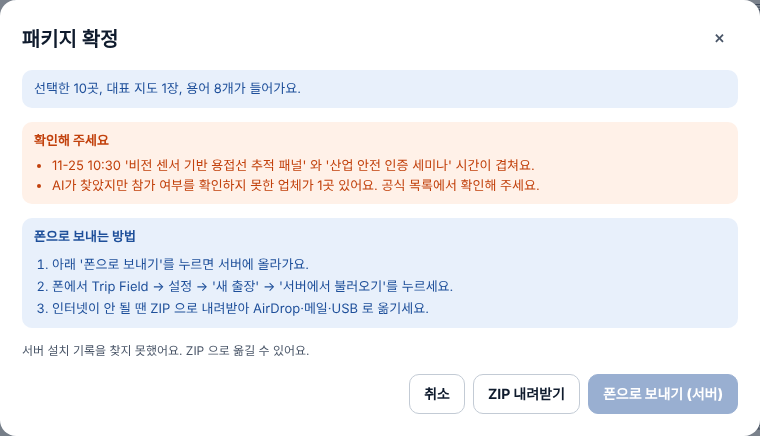
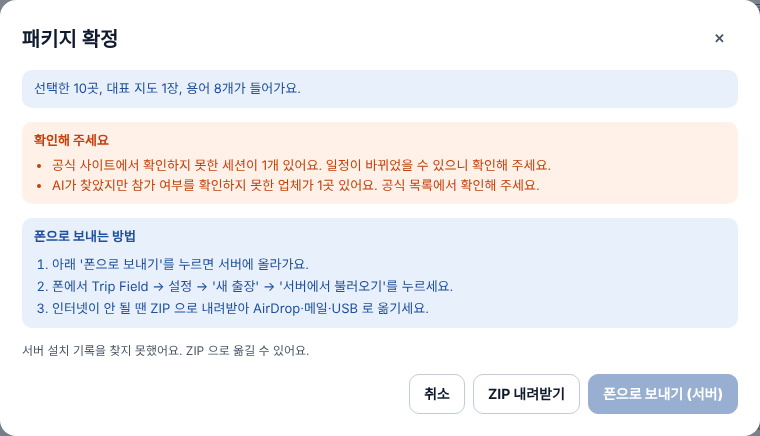
세션은 전부 폰으로 전달, 참석 여부는 폰에서 선택(내보내기→보고서 반영), 매뉴얼 갱신
Claude-Session: https://claude.ai/code/session_01QquWuwNK276MS5WpECriYo

Changed region(s): [[0.0605, 0.3578, 0.7263, 0.3876]]

diff --git a/field-pwa/js/views/list.js b/field-pwa/js/views/list.js
@@ -31,7 +31,7 @@ export async function renderList(root, ctx) {
   const todaySessions = (trip.sessions || []).filter((x) => x.date === date);
   const sessHtml = todaySessions.length
     ? `<div class="group-title">오늘 세션 · ${todaySessions.length}개</div><div class="list-card">${todaySessions
-        .map((x) => `<div class="item" data-sess="${esc(x.id)}" role="button" tabindex="0"><div class="item-main"><div class="item-name"><span style="color:var(--orange);font-weight:800">${esc(x.start || "시간 미정")}${x.end ? "~" + esc(x.end) : ""}</span> ${esc(x.title)}</div><div class="item-sub">${esc([x.place, x.hall && `홀 ${x.hall}`, x.speaker].filter(Boolean).join(" · ") || "장소 미정")}</div></div><span class="muted" aria-hidden="true">›</span></div>`)
+        .map((x) => `<div class="item" data-sess="${esc(x.id)}" role="button" tabindex="0"><div class="item-main"><div class="item-name"><span style="color:var(--orange);font-weight:800">${esc(x.start || "시간 미정")}${x.end ? "~" + esc(x.end) : ""}</span> ${esc(x.title)}${x.going ? ` <span class="pill pill-blue">참석</span>` : ""}</div><div class="item-sub">${esc([x.place, x.hall && `홀 ${x.hall}`, x.speaker].filter(Boolean).join(" · ") || "장소 미정")}</div></div><span class="muted" aria-hidden="true">›</span></div>`)
         .join("")}</div>`
     : "";
 
@@ -62,7 +62,7 @@ export async function renderList(root, ctx) {
   });
   root.querySelector("#addBtn").onclick = () => openAddCompany(ctx);
   root.querySelectorAll("[data-sess]").forEach((row) => {
-    row.onclick = () => openSession(todaySessions.find((x) => x.id === row.dataset.sess), trip);
+    row.onclick = () => openSession(todaySessions.find((x) => x.id === row.dataset.sess), trip, () => ctx.rerender());
   });
 
   root.querySelectorAll("[data-open]").forEach((row) => {

diff --git a/field-pwa/js/views/shared.js b/field-pwa/js/views/shared.js
@@ -253,7 +253,7 @@ export function openBookings(trip) {
 }
 
 // 세션(세미나·컨퍼런스) 상세: 시간·장소·연사·주제, 홀이 있으면 맵에서 보기
-export function openSession(x, trip) {
+export function openSession(x, trip, onChange) {
   if (!x) return;
   const when = `${x.date.slice(5).replace("-", "/")} ${x.start || "시간 미정"}${x.end ? "~" + x.end : ""}`;
   const { el, close } = openSheet(`<div class="sheet-head"><h2 class="sheet-title">세션</h2><button class="icon-btn" data-close aria-label="닫기" style="margin-right:-8px">${icons.close(22)}</button></div>
@@ -263,8 +263,15 @@ export function openSession(x, trip) {
       <div class="small">${esc([x.place, x.hall && `홀 ${x.hall}`].filter(Boolean).join(" · ") || "장소 미정")}</div>
       ${x.speaker ? `<div class="small">연사 ${esc(x.speaker)}</div>` : ""}
       ${x.topic ? `<div class="small muted" style="line-height:1.6">${esc(x.topic)}</div>` : ""}
-      ${x.hall ? `<button class="btn btn-primary btn-block" id="sessMap">맵에서 홀 ${esc(x.hall)} 보기</button>` : ""}
+      <button class="btn btn-block ${x.going ? "" : "btn-primary"}" id="sessGo">${x.going ? "✓ 참석 예정 (누르면 취소)" : "참석할게요"}</button>
+      ${x.hall ? `<button class="btn btn-block" id="sessMap">맵에서 홀 ${esc(x.hall)} 보기</button>` : ""}
     </div>`);
+  el.querySelector("#sessGo").onclick = async () => {
+    x.going = !x.going;
+    trip.sessions = trip.sessions.map((o) => (o.id === x.id ? { ...o, going: x.going } : o));
+    await db.put("trips", trip);
+    close(); onChange?.();
+  };
   const b = el.querySelector("#sessMap");
   if (b) b.onclick = () => { try { sessionStorage.setItem("tf.focusHall", x.hall); } catch { /* 무시 */ } close(); location.hash = "#/map"; };
 }

diff --git a/field-pwa/js/exporter.js b/field-pwa/js/exporter.js
@@ -120,6 +120,7 @@ export async function buildDayZip(trip, day, JSZip = globalThis.JSZip) {
     exportedAt: new Date().toISOString(),
     tzOffsetMin: -new Date().getTimezoneOffset(), // 폰이 있던 곳의 UTC 대비 분(독일 겨울 +60). 노트북이 다른 시간대여도 현장 시각으로 보여 주기 위해
     companies: companiesOut,
+    sessions: (trip.sessions || []).filter((x) => x.going && x.date === trip.days[day - 1]).map((x) => ({ id: x.id, title: x.title, date: x.date, start: x.start, end: x.end, place: x.place, hall: x.hall, speaker: x.speaker })),
   };
   zip.file(`${dayDir}/visits.json`, JSON.stringify(visits, null, 2));
 

diff --git a/field-pwa/js/importer.js b/field-pwa/js/importer.js
@@ -134,7 +134,7 @@ export async function importTripPackage(file) {
     days: tripIn.days,
     glossary,
     hallPins: cleanPins(tripIn.hallPins),
-    sessions: cleanSessions(tripIn.sessions),
+    sessions: cleanSessions(tripIn.sessions).map((x) => ({ ...x, going: !!existingTrip?.sessions?.find((o) => o.id === x.id)?.going })), // 다시 받아도 '참석' 표시는 유지
     bookings: { flights: Array.isArray(tripIn.bookings?.flights) ? tripIn.bookings.flights : [], hotels: Array.isArray(tripIn.bookings?.hotels) ? tripIn.bookings.hotels : [] },
     createdAt: existingTrip?.createdAt || Date.now(),
   };

diff --git a/field-pwa/sw.js b/field-pwa/sw.js
@@ -1,6 +1,6 @@
 // 서비스 워커: 한 번 열어 두면 오프라인에서도 앱이 켜진다.
 // 파일을 바꿔 배포할 때는 VERSION 숫자를 올려 주세요.
-const VERSION = "tf-v13";
+const VERSION = "tf-v14";
 
 const SHELL = [
   "./",

diff --git a/desk/tripdesk/reports.py b/desk/tripdesk/reports.py
@@ -61,11 +61,23 @@ def build_day(store: Store, tid: str, n: int) -> dict:
         bits.append("오늘 못 간 업체(일정 재조정): " + ", ".join(missed))
     return {
         "tripName": trip["name"], "venue": trip.get("venue", ""), "day": n, "date": v.get("date") or trip["days"][n - 1],
+        "sessions": [x for x in v.get("sessions", []) if isinstance(x, dict) and x.get("title")],
         "summary": st.get("summary") or auto, "summaryIsAi": bool(st.get("summary")), "stats": summary,
         "companies": comps_out, "checks": checks,
         "tomorrow": st["tomorrow"] if st.get("tomorrow") is not None else " · ".join(bits),
         "tomorrowIsAuto": st.get("tomorrow") is None,
     }
+
+
+def _attended(days: list[dict]) -> list[dict]:
+    """폰에서 '참석'으로 표시해 내보낸 세션(일간 데이터에 들어 있음)."""
+    out, seen = [], set()
+    for d in days:
+        for x in d.get("sessions", []):
+            if x.get("id") not in seen:
+                seen.add(x.get("id"))
+                out.append(x)
+    return sorted(out, key=lambda x: (x.get("date", ""), x.get("start") or "99:99"))
 
 
 def build_final(store: Store, tid: str) -> dict:
@@ -89,7 +101,7 @@ def build_final(store: Store, tid: str) -> dict:
         "days": days, "companies": sorted(merged.values(), key=lambda m: (m["category"], m["name"])),
         "travel": _travel(store, tid, trip),
         "ppt": pptdata.load(store, tid),
-        "sessions": [x for x in store.get_sessions(tid) if x.get("picked")],
+        "sessions": _attended(days),
         "notVisited": not_visited, "checks": [dict(x, day=d["day"]) for d in days for x in d["checks"]],
         "final": {"overview": final.get("overview", ""), "highlights": final.get("highlights", []), "followups": final.get("followups", [])},
         "totals": {k: sum(d["stats"].get(k, 0) for d in days) for k in ("recordings", "memos", "photos", "audioSeconds")}
@@ -163,8 +175,8 @@ def day_markdown(r: dict) -> str:
 
 
 def session_lines(r: dict) -> list[str]:
-    return [f"{x['date'][5:]} {x['start']}{('~' + x['end']) if x['end'] else ''} · {x['title']}"
-            + (f" ({x['place']}{' · 홀 ' + x['hall'] if x['hall'] else ''})" if x["place"] or x["hall"] else "") + (f" — {x['speaker']}" if x["speaker"] else "")
+    return [f"{x['date'][5:]} {x.get('start', '')}{('~' + x['end']) if x.get('end') else ''} · {x['title']}"
+            + (f" ({x.get('place', '')}{' · 홀 ' + x['hall'] if x.get('hall') else ''})" if x.get("place") or x.get("hall") else "") + (f" — {x['speaker']}" if x.get("speaker") else "")
             for x in r.get("sessions", [])]
 
 
@@ -179,7 +191,7 @@ def final_markdown(r: dict) -> str:
         L += ["## 이동·숙소·비용", *[f"- {x}" for x in tl], ""]
     sl = session_lines(r)
     if sl:
-        L += ["## 참관 세션(세미나·컨퍼런스)", *[f"- {x}" for x in sl], ""]
+        L += ["## 참관한 세션(세미나·컨퍼런스)", *[f"- {x}" for x in sl], ""]
     f = r["final"]
     if f["overview"]:
         L += ["## 총평", f["overview"], ""]
@@ -309,7 +321,7 @@ def final_docx(store: Store, tid: str, r: dict) -> bytes:
             d.add_paragraph(x, style="List Bullet")
     sl = session_lines(r)
     if sl:
-        d.add_heading("참관 세션(세미나·컨퍼런스)", 1)
+        d.add_heading("참관한 세션(세미나·컨퍼런스)", 1)
         for x in sl:
             d.add_paragraph(x, style="List Bullet")
     f = r["final"]

diff --git a/desk/tripdesk/sessions.py b/desk/tripdesk/sessions.py
@@ -34,7 +34,7 @@ def clean_one(c: dict, days: list[str] | None = None, keep_id: bool = True) -> d
     s = {"id": "", "title": title, "date": date, "start": _hm(c.get("start")), "end": _hm(c.get("end")),
          "place": _s(c.get("place"), 120), "hall": _s(c.get("hall"), 12), "speaker": _s(c.get("speaker"), 160),
          "topic": _s(c.get("topic"), 300), "sourceUrl": url if ok else "", "verified": c.get("verified") is True and ok,
-         "picked": c.get("picked") is True, "source": _s(c.get("source"), 10) or "manual"}
+         "source": _s(c.get("source"), 10) or "manual"}
     s["id"] = _s(c.get("id"), 40) if keep_id and c.get("id") else "s-" + hashlib.sha1(key(s).encode()).hexdigest()[:8]
     return s
 
@@ -85,7 +85,7 @@ def apply_reply(text: str, existing: list[dict], days: list[str]) -> tuple[list[
         if isinstance(c, dict) and days and _s(c.get("date"), 10) not in days:
             outside += 1
             continue
-        s = clean_one({**c, "source": "ai", "picked": False}, days, keep_id=False) if isinstance(c, dict) else None
+        s = clean_one({**c, "source": "ai"}, days, keep_id=False) if isinstance(c, dict) else None
         if not s:
             continue
         if key(s) in have:
@@ -98,22 +98,3 @@ def apply_reply(text: str, existing: list[dict], days: list[str]) -> tuple[list[
         raise ResearchError("반영할 세션이 없어요. 날짜(YYYY-MM-DD)와 제목이 들어 있는지 확인해 주세요.")
     return clean_all(merged), {"added": added, "existing": dup, "outside": outside, "notes": _s(data.get("notes"), 300),
                               "unverified": sum(1 for c in raw if isinstance(c, dict) and c.get("verified") is not True)}
-
-
-def _mins(hm: str) -> int | None:
-    return int(hm[:2]) * 60 + int(hm[3:]) if hm else None
-
-
-def conflicts(sessions: list[dict]) -> list[str]:
-    """고른 세션끼리 시간이 겹치면 알려 준다."""
-    out = []
-    ps = [s for s in sessions if s.get("picked") and _mins(s.get("start"))is not None]
-    for i, a in enumerate(ps):
-        for b in ps[i + 1:]:
-            if a["date"] != b["date"]:
-                continue
-            a0, b0 = _mins(a["start"]), _mins(b["start"])
-            a1, b1 = _mins(a["end"]) or a0 + 30, _mins(b["end"]) or b0 + 30
-            if a0 < b1 and b0 < a1:
-                out.append(f"{a['date'][5:]} {a['start']} '{a['title'][:20]}' 와 '{b['title'][:20]}' 시간이 겹쳐요.")
-    return out

diff --git a/desk/tripdesk/package.py b/desk/tripdesk/package.py
@@ -42,9 +42,8 @@ def check(store: Store, trip_id: str) -> list[str]:
     elif any(c.get("day") is None for c in cs):
         warns.append(f"일정(일차)이 정해지지 않은 업체가 {sum(c.get('day') is None for c in cs)}곳 있어요.")
     ss = store.get_sessions(trip_id)
-    warns += sess.conflicts(ss)
-    if any(x.get("picked") and not x.get("verified") for x in ss):
-        warns.append("공식 사이트에서 확인하지 못한 세션이 포함돼 있어요. 일정이 바뀌었을 수 있으니 확인해 주세요.")
+    if any(not x.get("verified") for x in ss):
+        warns.append(f"공식 사이트에서 확인하지 못한 세션이 {sum(not x.get('verified') for x in ss)}개 있어요. 일정이 바뀌었을 수 있으니 확인해 주세요.")
     unverified = [c for c in cs if c.get("source") == "ai" and not c.get("verified")]
     if unverified:
         warns.append(f"AI가 찾았지만 참가 여부를 확인하지 못한 업체가 {len(unverified)}곳 있어요. 공식 목록에서 확인해 주세요.")
@@ -65,7 +64,7 @@ def build_package(store: Store, trip_id: str) -> tuple[str, bytes]:
         "days": trip["days"],
         "bookings": _bookings(store, trip_id),
         "sessions": [{k: x.get(k, "") for k in ("id", "title", "date", "start", "end", "place", "hall", "speaker", "topic")}
-                     for x in store.get_sessions(trip_id) if x.get("picked")],  # 고른 세션만 폰으로
+                     for x in store.get_sessions(trip_id)],  # 세션은 전부 폰으로 보내고, 갈지 말지는 폰에서 고른다
         "hallPins": trip.get("hallPins", {}),  # 홀 → 지도 위 위치. 폰 지도에 일자별로 표시한다
     }
     companies = [

diff --git a/desk/tests/test_core.py b/desk/tests/test_core.py
@@ -183,14 +183,10 @@ def test_sessions_reply_conflicts_and_package(store):
     merged, res = sessions.apply_reply("```json\n" + json.dumps(reply) + "\n```", [], days)
     assert res["added"] == 3 and res["outside"] == 1 and res["existing"] == 1
     by = {s["title"]: s for s in merged}
-    assert by["Cobots in Shipbuilding"]["verified"] and not by["AI Panel"]["verified"] and by["Bad time"]["start"] == "" and not any(s["picked"] for s in merged)
-    for s in merged[:2]:
-        s["picked"] = True
-    assert sessions.conflicts(merged) and "겹쳐요" in sessions.conflicts(merged)[0]
+    assert by["Cobots in Shipbuilding"]["verified"] and not by["AI Panel"]["verified"] and by["Bad time"]["start"] == ""
     store.set_sessions(t["id"], merged)
     assert any("확인하지 못한 세션" in w for w in package.check(store, t["id"]))
     _, data = package.build_package(store, t["id"])
     z = zipfile.ZipFile(io.BytesIO(data))
     trip_json = json.loads(z.read([n for n in z.namelist() if n.endswith("trip.json")][0]))
-    assert len(trip_json["sessions"]) == 2 and "sourceUrl" not in trip_json["sessions"][0]
-    assert "Bad time" not in json.dumps(trip_json)
+    assert len(trip_json["sessions"]) == 3 and "sourceUrl" not in trip_json["sessions"][0]  # 세션은 전부 폰으로

diff --git a/desk/tests/test_daily.py b/desk/tests/test_daily.py
@@ -290,3 +290,17 @@ def test_ppt_markdown_zip_and_keeps_after_final_edit(store, zpath):
     assert "추가 확인 필요" in md and "### 시사점" in md and "※ 1: 단기 적용 가능" in md and "## [별첨] 업체별 자료" in md
     with pytest.raises(Exception):
         pptdata.apply_reply("```json\n{}\n```", store, t["id"], set(), {})
+
+
+def test_final_lists_sessions_attended_on_phone(store, zpath):
+    t = prep(store, zpath)
+    sess = [{"id": "s-1", "title": "AI Panel", "date": "2026-11-24", "start": "10:30", "end": "11:15", "place": "Stage 2", "hall": "3A", "speaker": ""}]
+    buf = io.BytesIO()
+    with zipfile.ZipFile(buf, "w") as z:
+        v = json.loads(zipfile.ZipFile(io.BytesIO(day_zip(t["id"]))).read("trip_SPS_2026/days/day1/visits.json"))
+        v["sessions"] = sess
+        z.writestr("trip_SPS_2026/days/day1/visits.json", json.dumps(v))
+    daily.import_zip(store, t["id"], zpath(buf.getvalue()))
+    fr = reports.build_final(store, t["id"])
+    assert fr["sessions"][0]["title"] == "AI Panel"
+    assert "참관한 세션" in reports.final_markdown(fr) and "10:30~11:15 · AI Panel (Stage 2 · 홀 3A)" in reports.final_markdown(fr)

diff --git a/desk/tripdesk/pptdata.py b/desk/tripdesk/pptdata.py
@@ -156,9 +156,9 @@ def build_markdown(r: dict, ppt: dict, photos: dict[str, list[str]]) -> str:
             L += _bul(v) if v else [f"- {NEED}"]
     ss = r.get("sessions", [])
     if ss:
-        L += ["", "### 참관 세션", "| 일시 | 세션 | 장소 | 비고 |", "|---|---|---|---|"]
+        L += ["", "### 참관한 세션", "| 일시 | 세션 | 장소 | 비고 |", "|---|---|---|---|"]
         for x in ss:
-            L.append(f"| {x['date'][5:]} {x['start']}{('~' + x['end']) if x['end'] else ''} | {_cell(x['title'])} | {_cell(' · '.join(y for y in (x['place'], x['hall'] and '홀 ' + x['hall']) if y))} | {x['speaker'] or ''} |")
+            L.append(f"| {x['date'][5:]} {x.get('start', '')}{('~' + x['end']) if x.get('end') else ''} | {_cell(x['title'])} | {_cell(' · '.join(y for y in (x.get('place'), x.get('hall') and '홀 ' + x['hall']) if y))} | {x.get('speaker') or ''} |")
     L += ["", "(배치도 이미지는 별도로 첨부)", "", "## 주요 확인 사항"]
     L.append(f"확인 목적: {r['purpose'] or NEED}")
     L += ["", "| 구분 | 업체 | 수준 | 확인 사항 |", "|---|---|---|---|"]
